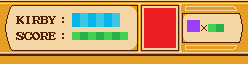
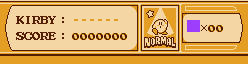
최예나 : HUI 이미지 변경

diff --git a/WinAPI_Portfolio/ContentsProject/KirbyContentsCore.cpp b/WinAPI_Portfolio/ContentsProject/KirbyContentsCore.cpp
@@ -47,6 +47,7 @@ void KirbyContentsCore::BeginPlay()
 	UImageManager::GetInst().CuttingSprite("Kirby_Normal_Left.png", {32, 32});
 	UImageManager::GetInst().CuttingSprite("Kirby_Normal_Right.png", {32, 32});
 	UImageManager::GetInst().CuttingSprite("Lives.png", {13, 12});
+	UImageManager::GetInst().CuttingSprite("Score.png", {8, 8});
 
 	UEngineAPICore::GetCore()->GetMainWindow().SetWindowTitle("Kirby's Adventure");
 

diff --git a/WinAPI_Portfolio/ContentsProject/Score.cpp b/WinAPI_Portfolio/ContentsProject/Score.cpp
@@ -63,6 +63,5 @@ void AScore::SetValue(int _Score)
 	{
 		Renders[i]->SetActive(false);
 	}
-
 }
 
